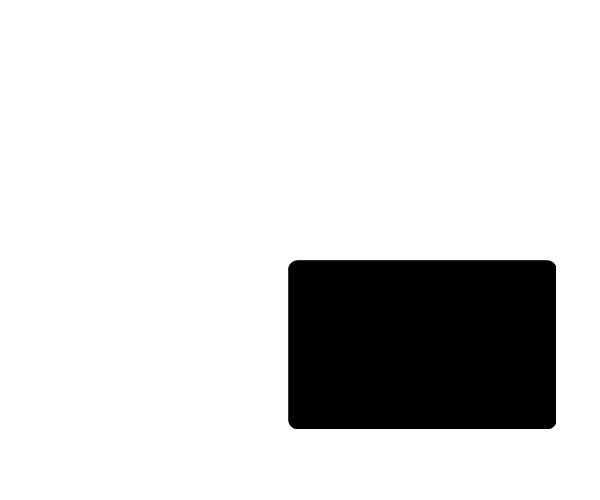
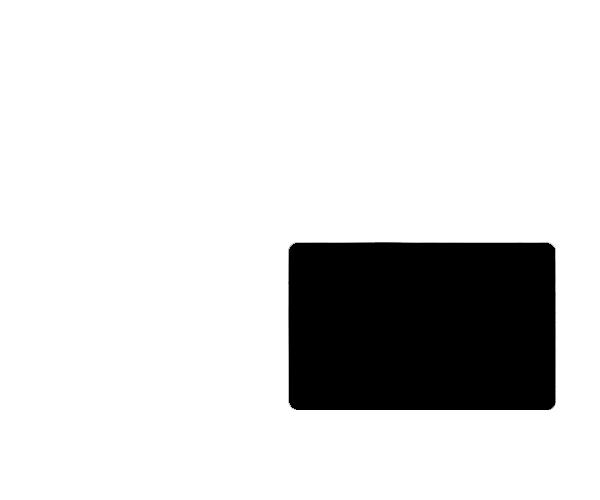
sdfe

Changed region(s): [[0.48, 0.81, 0.93, 0.87], [0.48, 0.48, 0.93, 0.54]]

diff --git a/PremierCard/Offer/300x250/stylesRL1.css b/PremierCard/Offer/300x250/stylesRL1.css
@@ -226,7 +226,7 @@ video {
   width: 134px;
 }
 #card-end{
-  top: 130px;
+  top: 121px;
   left: 144px;
   width: 134px;
 }
@@ -239,7 +239,7 @@ video {
   left: 239px;
 }
 #term2{
-  top: 217px;
+  top: 210px;
   left: 242px;
 }
 /* Shine effect */
